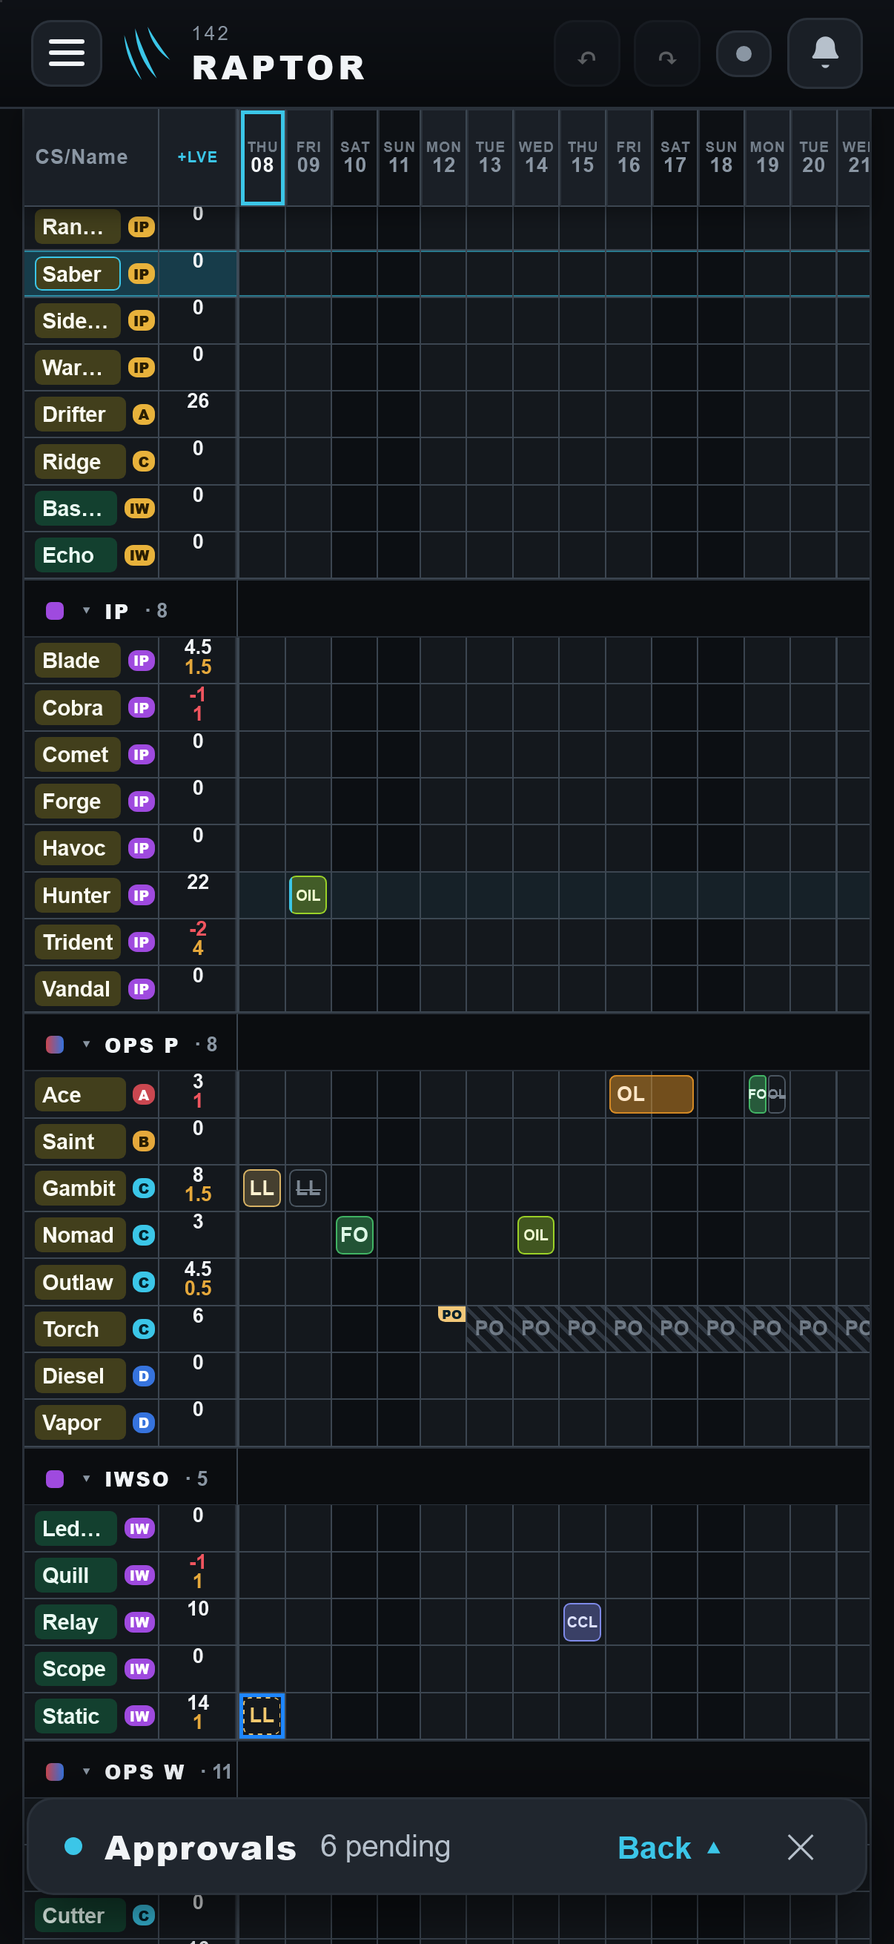
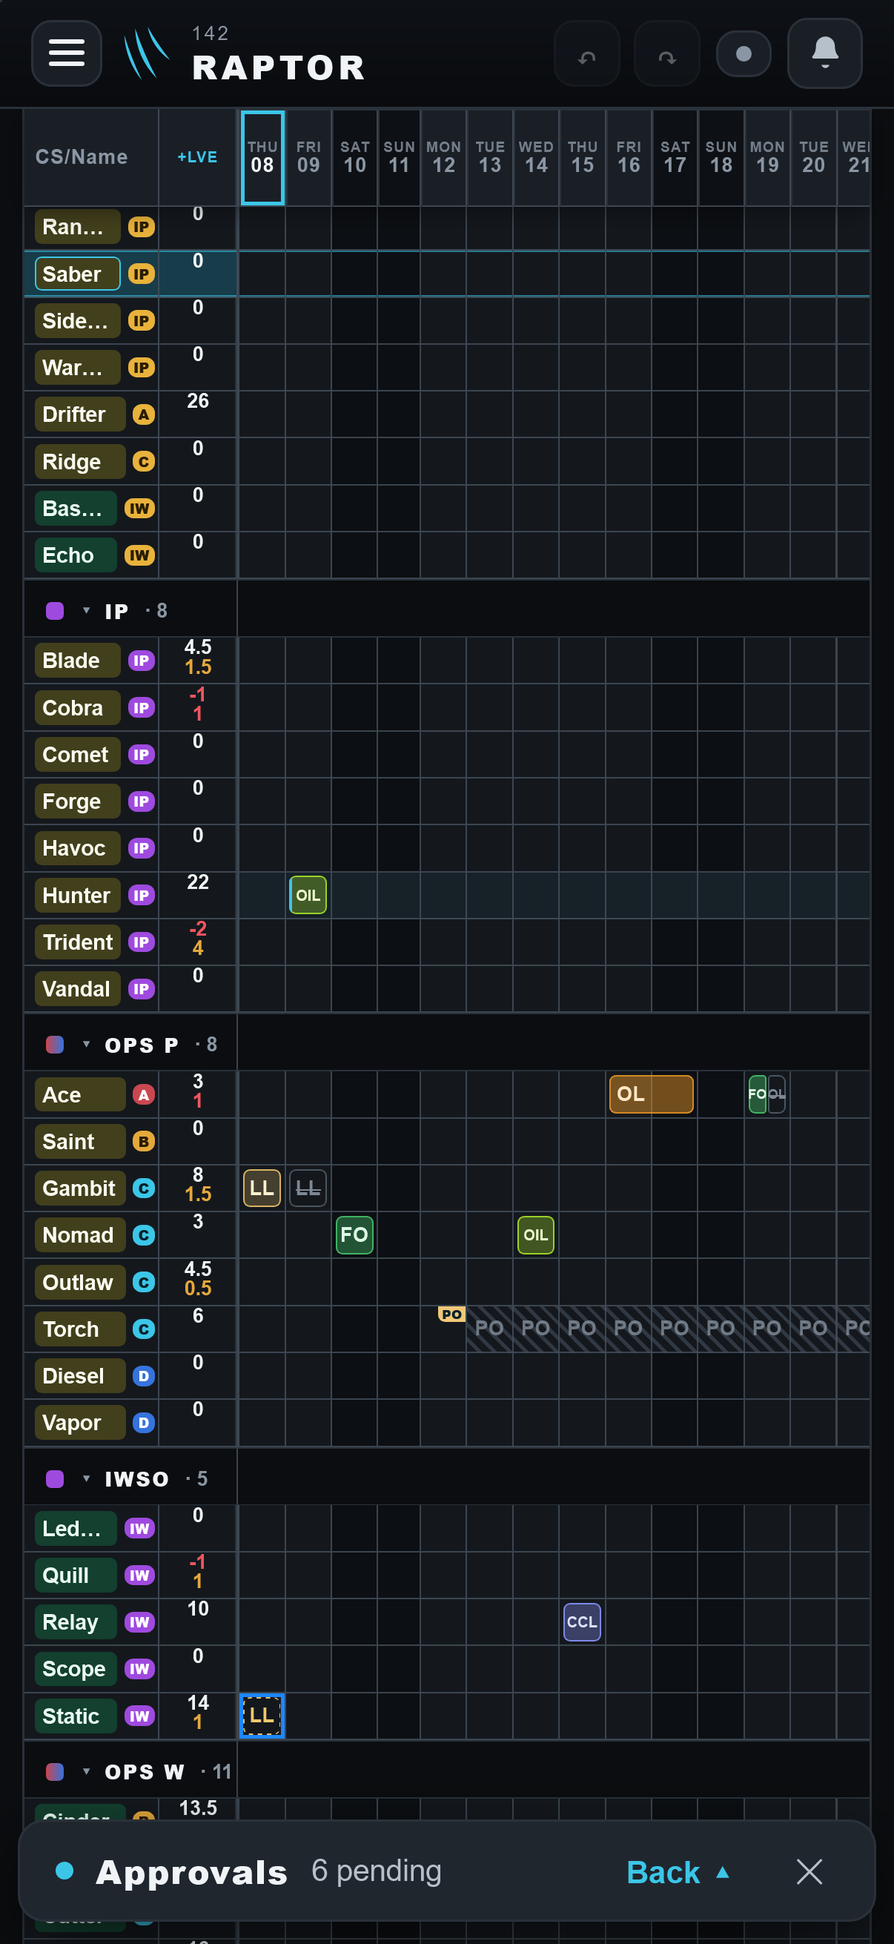
Handoff: the night's state at 04:00; his page version 7 assembled (questions 20-23, built and fixed tonight)

Changed region(s): [[0.0, 0.9268, 0.9818, 0.9886]]

diff --git a/raptor-port/docs/handpass/parts/lw-m4/side-by-side.html b/raptor-port/docs/handpass/parts/lw-m4/side-by-side.html
@@ -44,88 +44,81 @@ dialog .close { position: fixed; top: calc(10px + env(safe-area-inset-top, 0px))
 </style>
 <main>
   <header style="display:grid;gap:8px">
-    <h1>Leave War Approvals: build beside your drawings</h1>
-    <p class="lede">Your 13 answers are built. Two new questions came up while building them, shown first. Below them is each change you asked for, your drawing on top and the build underneath, the place ringed. Tap a picture to see it full size.</p>
+    <h1>Leave War Approvals: the night of 27–28 Oct</h1>
+    <p class="lede">Your answers 17, 18 and 19 are built and checked beside your drawings. Four things wait for you first, newest on top. Below them is what was built and fixed tonight. Tap a picture to see it full size.</p>
   </header>
 
   <div class="todo">
     <h2>What I need from you</h2>
     <p>Reply "all as recommended", or give the number you want the other way.</p>
-    <ol start="17">
-      <li><a href="#q17">The phone's slim Approvals bar</a>: back to your drawing, as on the desktop</li>
-      <li><a href="#q18">Approve and Refuse on a phone</a>: your drawing's letters, so a half-day date stays on one line</li>
-      <li><a href="#q19">The changes window's bar on a phone</a>: the same plain look as the slim Approvals bar, so the two match</li>
+    <ol start="20">
+      <li><a href="#q20">The shorter top of Approvals on a phone</a>: build it as drawn</li>
+      <li><a href="#q21">The slim bar's colour</a>: the darker shade of your drawings, on a phone and a desktop</li>
+      <li><a href="#q22">The words under a man posting out</a>: keep "posting out 1 Mar · Overseas Sqn"</li>
+      <li><a href="#q23">On your iPhone</a>: check that "23 Jan AM ›" stays on one line</li>
     </ol>
   </div>
 
   <section>
-    <h2>Two new questions</h2>
-    <article class="card" id="q17">
-      <div class="head"><span class="num">17</span><h3>The phone's slim Approvals bar</h3><span class="rec back">Back to your drawing</span></div>
-      <p class="why">You said "back to the drawing" for the desktop's slim bar, and it is built. My first page said the phone's bar already matched its drawing. It does not: like the desktop's, it has a cyan outline and Back and ✕ in boxes, where your drawing has a plain bar, "Back ▴" as cyan words and a plain ✕. My recommendation: the same as the desktop, so the bar looks alike everywhere. Each button keeps its full tap area.</p>
-      <button class="pic" type="button" aria-label="Enlarge picture 17"><img src="after/q17-phone-slim.png" alt="The phone's slim bar: plain in the drawing, outlined with boxed buttons in the build"></button>
-      <h3>Every bar like it in the app</h3>
-      <p class="why">You asked which other bars are like this one. There are five, pictured below, on a phone first, then on a desktop. (2) The changes window, hidden to a bar while History is on, is the closest match: it does the same job (a window made small at the foot, one button to bring it back, ✕ to close) and appears on a phone only. It has no cyan outline, but its Show and ✕ are boxed. (3) The "Use this order as the default?" offer after a section is dragged: on a desktop a short bar at the foot, on a phone a small card. (4) A passing note: a plain bar with no buttons that goes by itself. (5) and (6) The OIL bar and "Not saved" sit under the top bar, across the whole width, and stay until tapped. They are warnings, a different kind of bar, and I would leave them as they are.</p>
-      <button class="pic" type="button" aria-label="Enlarge: every bar, phone"><img src="after/bars-phone.png" alt="Every bar like the slim Approvals bar, on a phone"></button>
-      <button class="pic" type="button" aria-label="Enlarge: every bar, desktop"><img src="after/bars-desk.png" alt="Every bar like the slim Approvals bar, on a desktop"></button>
+    <h2>Open</h2>
+    <article class="card" id="q20">
+      <div class="head"><span class="num">20</span><h3>The shorter top of Approvals on a phone (your "Both")</h3><span class="rec back">Build as drawn</span></div>
+      <p class="why">Drawn on the real app, not built yet. A: the link to the other period moves onto the title's line, shortened to "+2 in JAN – DEC 27 ›" (the period keeps the name you gave it). B: only the months that hold requests show, on the row of New and All. With two months holding requests it saves 63 points of height at every phone width. With seven months the chips still take two rows, so it saves 21 points on your phone and 4 on a narrow one, where the link keeps its own line.</p>
+      <button class="pic" type="button" aria-label="Enlarge: today and proposed, two months"><img src="v7/demo-402-pair.png" alt="Today and proposed at 402 wide, two months holding requests"></button>
+      <button class="pic" type="button" aria-label="Enlarge: today and proposed, seven months, 360 wide"><img src="v7/busy-360-pair.png" alt="Today and proposed at 360 wide, seven months holding requests"></button>
     </article>
-    <article class="card" id="q19">
-      <div class="head"><span class="num">19</span><h3>The changes window's bar on a phone</h3><span class="rec back">The same plain look</span></div>
-      <p class="why">If you say yes to 17, the slim Approvals bar and the changes window's bar (picture 2 above) would look different although they do the same job. My recommendation: give the changes bar the same look, "Show ▴" as plain cyan words and a plain ✕, each keeping its full tap area, so both bars at the foot of the screen read as one kind of thing. Its words stay as they are.</p>
+    <article class="card" id="q21">
+      <div class="head"><span class="num">21</span><h3>The slim bar's colour</h3><span class="rec back">Your drawing's shade</span></div>
+      <p class="why">The bar now matches your drawing in its size, its edge and its words. Its fill is one shade lighter than drawn, on the desktop bar too: the app's raised grey, where both your drawings use a darker grey. My recommendation: your drawings' darker shade on both.</p>
+      <button class="pic" type="button" aria-label="Enlarge: the phone slim bar"><img src="v7/17-phone-slim.png" alt="The phone slim bar, your drawing above, the build below"></button>
     </article>
-    <article class="card" id="q18">
-      <div class="head"><span class="num">18</span><h3>Approve and Refuse on a phone</h3><span class="rec back">Your drawing's letters</span></div>
-      <p class="why">Built as you ruled (question 15): the buttons are narrower, and a lit "Approved" no longer moves its edge under your finger. But measured with an iPhone's letters, that alone does not keep a half-day date on one line: at your phone's width "23 Jan AM ›" and "10 Feb AM ›" still break onto a second line (left picture). It needs the buttons in your drawing's own letters, a little smaller and less heavy, the same height. They then measure exactly your drawing's buttons, and every date fits (right picture). On narrower phones than yours, and on a line with a document's paperclip, a half-day date would still break. My recommendation: your drawing's letters, on a phone only.</p>
-      <button class="pic" type="button" aria-label="Enlarge picture 18"><img src="after/q18-phone-buttons.png" alt="At 402 wide: a half-day date breaks with today's buttons, fits with the drawing's letters"></button>
+    <article class="card" id="q22">
+      <div class="head"><span class="num">22</span><h3>The words under a man posting out</h3><span class="rec keep">Keep the build's</span></div>
+      <p class="why">Your drawing writes "PO 1 Mar" under his name; the build writes "posting out 1 Mar · Overseas Sqn". The build's words say where he goes and need no abbreviation to learn. My recommendation: keep them. Say "PO" if you want the drawing's short form.</p>
+      <button class="pic" type="button" aria-label="Enlarge: posting out words"><img src="v7/22-po-words.png" alt="PO 1 Mar in your drawing, posting out 1 Mar · Overseas Sqn in the build"></button>
+    </article>
+    <article class="card" id="q23">
+      <div class="head"><span class="num">23</span><h3>A check only your iPhone can make</h3><span class="rec fix">Please look</span></div>
+      <p class="why">Approve and Refuse now use your drawing's letters (your answer 18). In the test browsers that keeps every date on one line at your phone's width. The app uses your phone's own letters, which only your phone shows, so please open Approvals on your iPhone and check that the half-day dates, such as "23 Jan AM ›", stay on one line. On GitHub's machines, whose letters are wider, those two still break.</p>
+    </article>
+    <article class="card">
+      <h3>Readings to strike (unchanged since version 6)</h3>
+      <p class="why">R12 a member never replaces another man's bid · R13 a member taking back his own bid is a line in the change history · R14 his own filing over his own bid leaves no notice · R15 an admin re-typing a member's bid tells him nothing · R16 "Placed" keeps who placed the first bid · R17 "New" counts what others placed since you last looked · R19 one leave keeps one approver. Say the number of any you want the other way.</p>
     </article>
   </section>
 
   <section>
-    <h2>Built from your answers</h2>
+    <h2>Built tonight (your answers 17, 18, 19)</h2>
     <article class="card">
-      <div class="head"><span class="num">1</span><h3>The header says when you last looked</h3></div>
-      <p class="why">"7 pending · 1 new since you last looked, Tue 27 Oct 22:12". While building it I found the app had never saved when you opened Approvals, so "New" counted every request since the start. That is fixed and tested. With nothing new, the header says only "7 pending".</p>
-      <button class="pic" type="button" aria-label="Enlarge: header"><img src="after/1-header.png" alt="Header with the last-looked time, drawing and build"></button>
+      <div class="head"><span class="num">17</span><h3>The phone's slim bar, back to your drawing</h3></div>
+      <p class="why">No cyan outline, "Back ▴" as plain words, a plain ✕, "6 pending" with no dot before it; now the drawing's size and place too (8 points in from each side, 46 tall).</p>
     </article>
     <article class="card">
-      <div class="head"><span class="num">3</span><h3>A thin line between New and DATES</h3></div>
-      <button class="pic" type="button" aria-label="Enlarge: divider"><img src="after/3-divider.png" alt="The divider between New and DATES, drawing and build"></button>
+      <div class="head"><span class="num">18</span><h3>Approve and Refuse in your drawing's letters, on a phone</h3></div>
+      <button class="pic" type="button" aria-label="Enlarge: phone buttons"><img src="v7/18-phone-buttons.png" alt="The phone list, your drawing above, the build below"></button>
     </article>
     <article class="card">
-      <div class="head"><span class="num">6</span><h3>The gap under the tab row</h3></div>
-      <p class="why">The card now sits where the grid's card sits.</p>
-      <button class="pic" type="button" aria-label="Enlarge: card"><img src="after/6-card.png" alt="The card under the tabs, drawing and build"></button>
+      <div class="head"><span class="num">19</span><h3>The changes window's bar on a phone, the same plain look</h3></div>
+      <p class="why">"Show ▴" as plain words, a plain ✕. It also read "History on· 0 changes", the space swallowed; now "History on · 0 changes".</p>
+      <button class="pic" type="button" aria-label="Enlarge: changes bar"><img src="v7/19-changes-bar.png" alt="The changes window's bar on a phone"></button>
     </article>
     <article class="card">
-      <div class="head"><span class="num">8</span><h3>A decided line's box shows the decision</h3></div>
-      <p class="why">Filled once approved, grey and struck through once refused, as the grid draws them.</p>
-      <button class="pic" type="button" aria-label="Enlarge: kind box"><img src="after/8-kind-box.png" alt="The kind's box on decided lines, drawing and build"></button>
+      <h3>On a narrow phone, "LOWEST AVAIL" ran into "PLACED"</h3>
+      <p class="why">At 360 wide the two headings touched. "LOWEST" now sits over "AVAIL" there; on your phone it stays on one line.</p>
+      <button class="pic" type="button" aria-label="Enlarge: headings at 360"><img src="v7/heads-360.png" alt="The headings at 360 wide"></button>
     </article>
-    <article class="card">
-      <div class="head"><span class="num">10</span><h3>"Also since you last looked" lined up</h3></div>
-      <p class="why">The dates level with the words, what happened under DAYS, its time under PLACED.</p>
-      <button class="pic" type="button" aria-label="Enlarge: also since"><img src="after/10-also.png" alt="Also since you last looked, drawing and build"></button>
-    </article>
-    <article class="card">
-      <div class="head"><span class="num">11</span><h3>The slim bar on the desktop</h3></div>
-      <p class="why">Compact and centred, no cyan outline, "Back ▴" as plain words and a plain ✕.</p>
-      <button class="pic" type="button" aria-label="Enlarge: slim bar"><img src="after/11-slim.png" alt="The desktop slim bar, drawing and build"></button>
-    </article>
-    <p class="match">Also built: the bell's bidding lines start with a capital, "Bidding open" (12); leave on days after a man's posting-out date is refused even before the posting runs, "He posts out on 1 Mar: refuse or delete it", unless he is posted out as SANS, in Approvals and in the bid windows alike (16). Kept as built, as you chose: the "+2 pending in" link (2), Approve all's amber (9), the bell's ages (13) and the phone filters' three rows (14).</p>
-    <p class="match">Checked and not a fault: a SANS man's puck in Approvals does wear its purple edge. It is only a few pixels wide at the line's size, and the walker missed it.</p>
   </section>
 
   <section>
-    <h2>Fixed earlier today</h2>
-    <article class="card"><h3>The bell went on saying "bidding open" for dates long gone</h3><p class="why">Once the dates had passed, the "its dates ended" line could lose to the older "bidding open" line, and two weeks on the "open" line came back. Now a man told that bidding opened is always told it ended.</p><button class="pic" type="button" aria-label="Enlarge: member bell"><img src="pairs/f7-member-bell.png" alt="Member bell still says bidding open"></button></article>
-    <article class="card"><h3>A long bell hides "Mark all read"</h3><p class="why">With 12 lines it stopped at the 9th with no sign of more, "Mark all read" out of sight. Now "Mark all read" stays at the foot, with "↓ 3 more" until you reach the end.</p><button class="pic" type="button" aria-label="Enlarge: long bell"><img src="pairs/f5-longbell.png" alt="Long bell cut off"></button></article>
-    <article class="card"><h3>The manning bubble hides behind the slim bar</h3><p class="why">A bid that turns a row amber or red raised its bubble under the slim bar. It now stands above the bar, on a phone and a desktop.</p><button class="pic" type="button" aria-label="Enlarge: bubble"><img src="pairs/f3-bubble.png" alt="Bubble behind the slim bar"></button></article>
-    <article class="card"><h3>A person's window covers the slim bar</h3><p class="why">A window opened half over the slim bar, cutting "Back". While the bar is up, windows now open above it.</p><button class="pic" type="button" aria-label="Enlarge: person window"><img src="pairs/f4-window.png" alt="Person window over the slim bar"></button></article>
-    <article class="card"><h3>The tab's count sits outside its ring on narrower phones</h3><p class="why">At 390 and 360 wide the "8" poked out past the lit outline. Each tab now takes at least its own width.</p><button class="pic" type="button" aria-label="Enlarge: tab count"><img src="pairs/f1-tabcount.png" alt="Tab count outside its ring"></button></article>
-    <p class="match">Also fixed: "New 0" no longer shows its dot; one picked day reads "13 Jan", not "13 Jan – 13 Jan".</p>
+    <h2>Fixed tonight (found by the re-walk and two code reads)</h2>
+    <article class="card"><h3>The wrong half of a day decided</h3><p class="why">With a man's afternoon leave already approved, approving his morning and then pressing Refuse or the lit "Approved" changed the afternoon. Both code readers found it. Now only the half you pressed changes, and his bell says the right thing.</p></article>
+    <article class="card"><h3>Pick dates… open: a press approved another man's request</h3><p class="why">On a phone, the press closed the calendar, the list moved up, and the line that arrived under your finger was approved. Now a press outside the open calendar only closes it.</p></article>
+    <article class="card"><h3>Undo after changing your mind</h3><p class="why">Approve, then Refuse, then Undo left the line showing "Refused" while the leave was approved again. The line now always shows what the leave holds, after every Undo, Redo or change on the grid.</p></article>
+    <article class="card"><h3>Posting out: one rule, one reason, everywhere</h3><p class="why">The bid window refused leave after a posting-out date with the wrong reason ("something else is on that time"), and approved what Approvals refused once a posting had run. Every window now refuses alike, with "He posts out on 15 Jan: refuse or delete it".</p></article>
+    <p class="match">Also fixed: a finger dragged from the foot of the bell no longer scrolls the page behind; leaving the Leave War from Approvals no longer leaves the grid drawing the whole year in the background; an unread "approved again" line goes with the next Undo; a hand-made command can no longer borrow another bid's "placed" time; when you last opened Approvals is saved under its own name for the database. Each was made to fail by a test first.</p>
   </section>
 </main>
-<dialog id="zoom" aria-label="Picture, full size"><button class="close" type="button" id="zoomClose">Close</button><img id="zoomImg" src="after/q17-phone-slim.png" alt="Picture, full size"></dialog>
+<dialog id="zoom" aria-label="Picture, full size"><button class="close" type="button" id="zoomClose">Close</button><img id="zoomImg" src="v7/17-phone-slim.png" alt="Picture, full size"></dialog>
 <script>
 const dlg = document.getElementById('zoom'), big = document.getElementById('zoomImg')
 let opener = null

diff --git a/raptor-port/scripts/handpass/lw-m4-night-pairs.py b/raptor-port/scripts/handpass/lw-m4-night-pairs.py
@@ -36,10 +36,15 @@ def stack(name, parts_in):
     print(name, out.size)
 
 r5 = os.path.join(DRAW, 'r22-5-phone.png'); r6 = os.path.join(DRAW, 'r22-6-phone.png')
-DR, NOW = 'His drawing', 'Built tonight'
+DR, NOW = 'Your drawing', 'Built tonight'
 # 17 - the phone's slim bar: the foot of the screen
 stack('17-phone-slim', [(DR, cut(r6, (0, 2622 - 300, 1206, 2622))), (NOW, cut(os.path.join(SRC, 'n17-slim-402.png'), (0, 2622 - 330, 1206, 2622)))])
 # 18 - the list's first requests: the drawing's letters on Approve and Refuse
 stack('18-phone-buttons', [(DR, cut(r5, (0, 1000, 1206, 1900))), (NOW, cut(os.path.join(SRC, 'n18-list-402.png'), (0, 900, 1206, 1900)))])
 # 19 - the changes window's bar: before tonight (the page's picture of every bar) and after
 stack('19-changes-bar', [('Built tonight', cut(os.path.join(SRC, 'n19-chgbar-402.png'), (0, 2622 - 260, 1206, 2622)))])
+
+# 22 - the words under a man posting out: his drawing r22-1-desk ("PO 1 Mar", ringed 5 there) above, the build below
+# (walker A's picture of the first walk, a-s9c-13: "posting out 1 Mar · Overseas Sqn")
+po = os.path.join(DOCS, 'img', 'handpass', '2026-10-27-lw-m4', 'a', 's9c', 'a-s9c-13-posting-out-line.png')
+stack('22-po-words', [(DR, cut(os.path.join(DRAW, 'r22-1-desk.png'), (40, 870, 1300, 992))), ('As built', cut(po, (0, 0, Image.open(po).width, Image.open(po).height)))])

diff --git a/HANDOFF.md b/HANDOFF.md
@@ -26,6 +26,7 @@ the later merge keeps both (D78).
 - **Where it started:** chats one and two built M4 (spec `raptor-port/docs/superpowers/plans/2026-10-27-lw-m4-build-spec.md`); the third walked it; the fourth confirmed the walk's findings, made his side-by-side page (D1426) and fixed the outright faults; the fifth built his answers D1430–D1438 (sheet `raptor-port/docs/handpass/2026-10-27-lw-m4.md` §10). This, the sixth, runs the night. Remote Control on; keep-awake held; the compaction guard off (`--away`).
 - **His selection (his /overnight message, 28 Oct 26):** carry on M4's bug check from the fifth chat's "Pick up here"; his answer to questions 17, 18, 19 is "As recommended" — **recorded first as D1440–D1442** (commit 334c7903b).
 - **The night's order:** (A) **D1439's mock-up only** — the new phone top of Approvals drawn on the real app (D853), put to him in the morning; its build waits on his look, so it is NOT in tonight's re-walk and gets its own check after. (B) **Build D1440, D1441, D1442** red-first where a test can see it, each compared with its drawing (D1424), measured at 402/390/360 in WebKit. (C) **The re-walk** of everything changed since the first walk (§10: the fourth chat's fixes, D1427–D1438, D1440–D1442, the visit-save fix) — own `rewalk/` folders, a frozen build, the check lock for the build; every walker's brief carries §10's lessons and bug-check order §7.11 (lessons 1–9). (D) the break tests. (E) ONE fresh blind Opus read AND Fable's read (his D1425), each blind to the other, with the sheet. (F) fixes red-first, re-walk what they touch; GitHub's run green on the last pushed commit (D151); the `Walk:` line, the ledger row, `[NO-ASTRA-LIST]` lines (D761); the preview link and pictures for his look; readings R12–R17, R19 named at his look. Tier FULL throughout (sheet §1).
+- **Done by 04:00 (28 Oct 26):** A drawn (`d1439/`); B built (5f0405eaf); C re-walk (§11 — 23 PASS · 5 FAIL); E two reads (Opus 8, Fable 3 — D1425 spent); thirteen findings fixed red-first by a fresh builder (05b952db1 … da770b233, `parts/lw-m4/fixes-night.md`); GitHub's full run GREEN on da770b233; the fixes re-walked (`parts/lw-m4/rewalk2.md`, 7 of 8 — F6 older, filed [LW-LEAVE-SCROLL-CARRY]); his page version 7 assembled (`parts/lw-m4/side-by-side.html`, pictures `parts/lw-m4/v7/`, questions 20–23), NOT yet published (artifact DSp8hQJq2EsAWK7asmx6Hj — read it first). **In hand:** the fixes' blind read (brief `2026-10-28-lw-m4-fix-read.md`, copy C:/m4f, report `parts/lw-m4/fix-read.md`). **Then:** its fixes (a fresh builder) → break tests (`scripts/handpass/breaks.mjs`, after the read) → the sheet's Walk line, ledger row, [NO-ASTRA-LIST] lines → publish page v7 → morning report. Remove C:/m4f when the read ends.
 - **Owed:** one reviewer's read of D1440–D1442's short lines against their full rows (D138 — the filing script's UNREAD list); D1442's code home added to its row once built.
 - **His word at 01:50 (D1443):** when his message names the work, he is still told the night's jobs first — the list was sent then; the overnight guide gains it at the next review (D70). He was also asked "Low or Medium?" (D1104), which the night skipped: the old guide was loaded from the main folder (observation 732).
 - **Questions waiting for him:** none yet.
